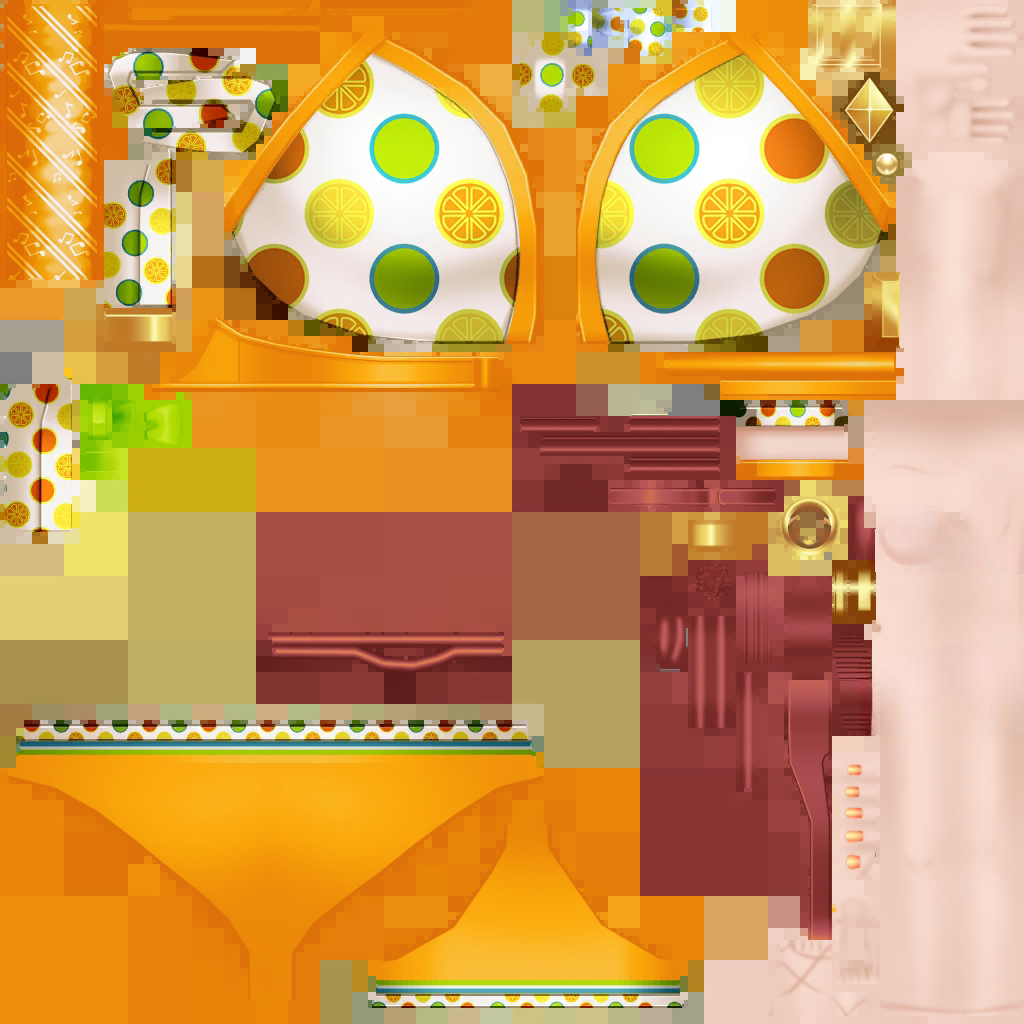
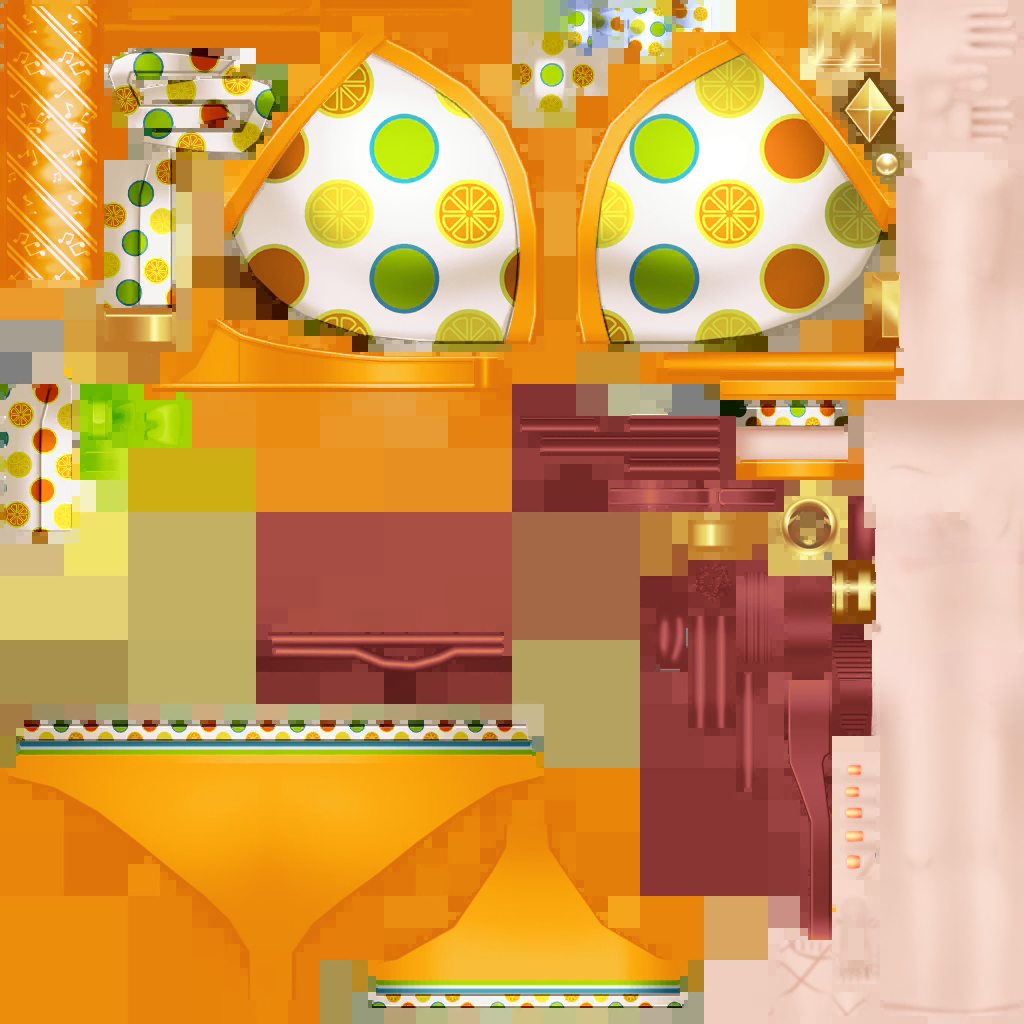
default texture always flat

diff --git a/sdk/costume/README.md b/sdk/costume/README.md
@@ -1,6 +1,8 @@
 # About skin texture
 credit to Yousifrill for drawing body texture
 
+it always flat otherwise looks weird on flat
+
 these recreation texture may not similar as official, if you want add your modified texture, let me know / make pull request
 
 # Thigh Scale